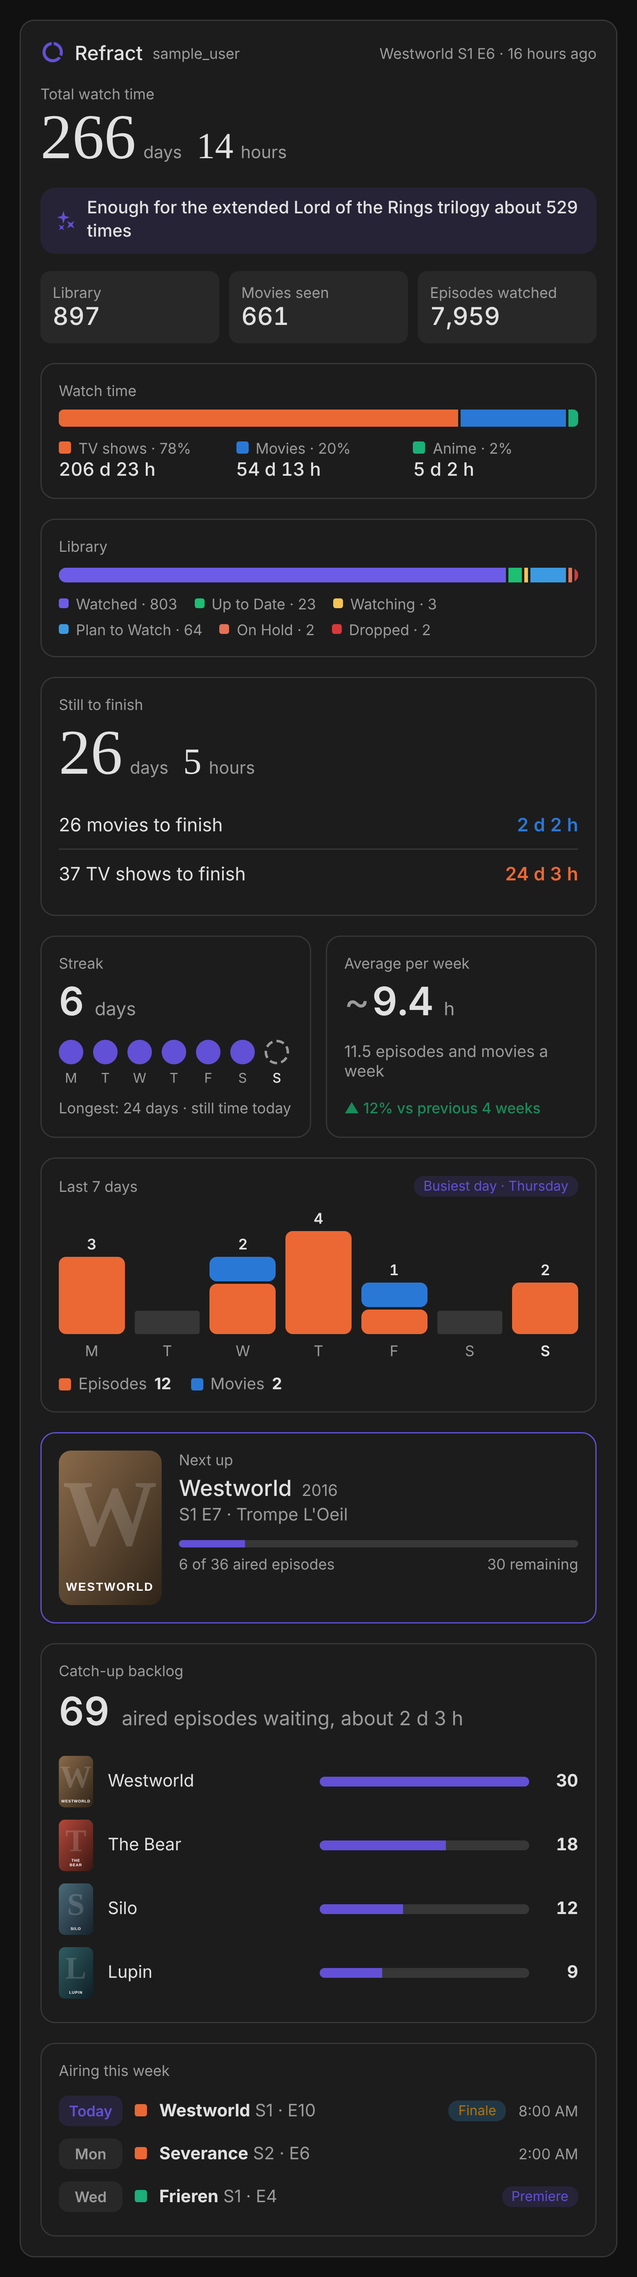
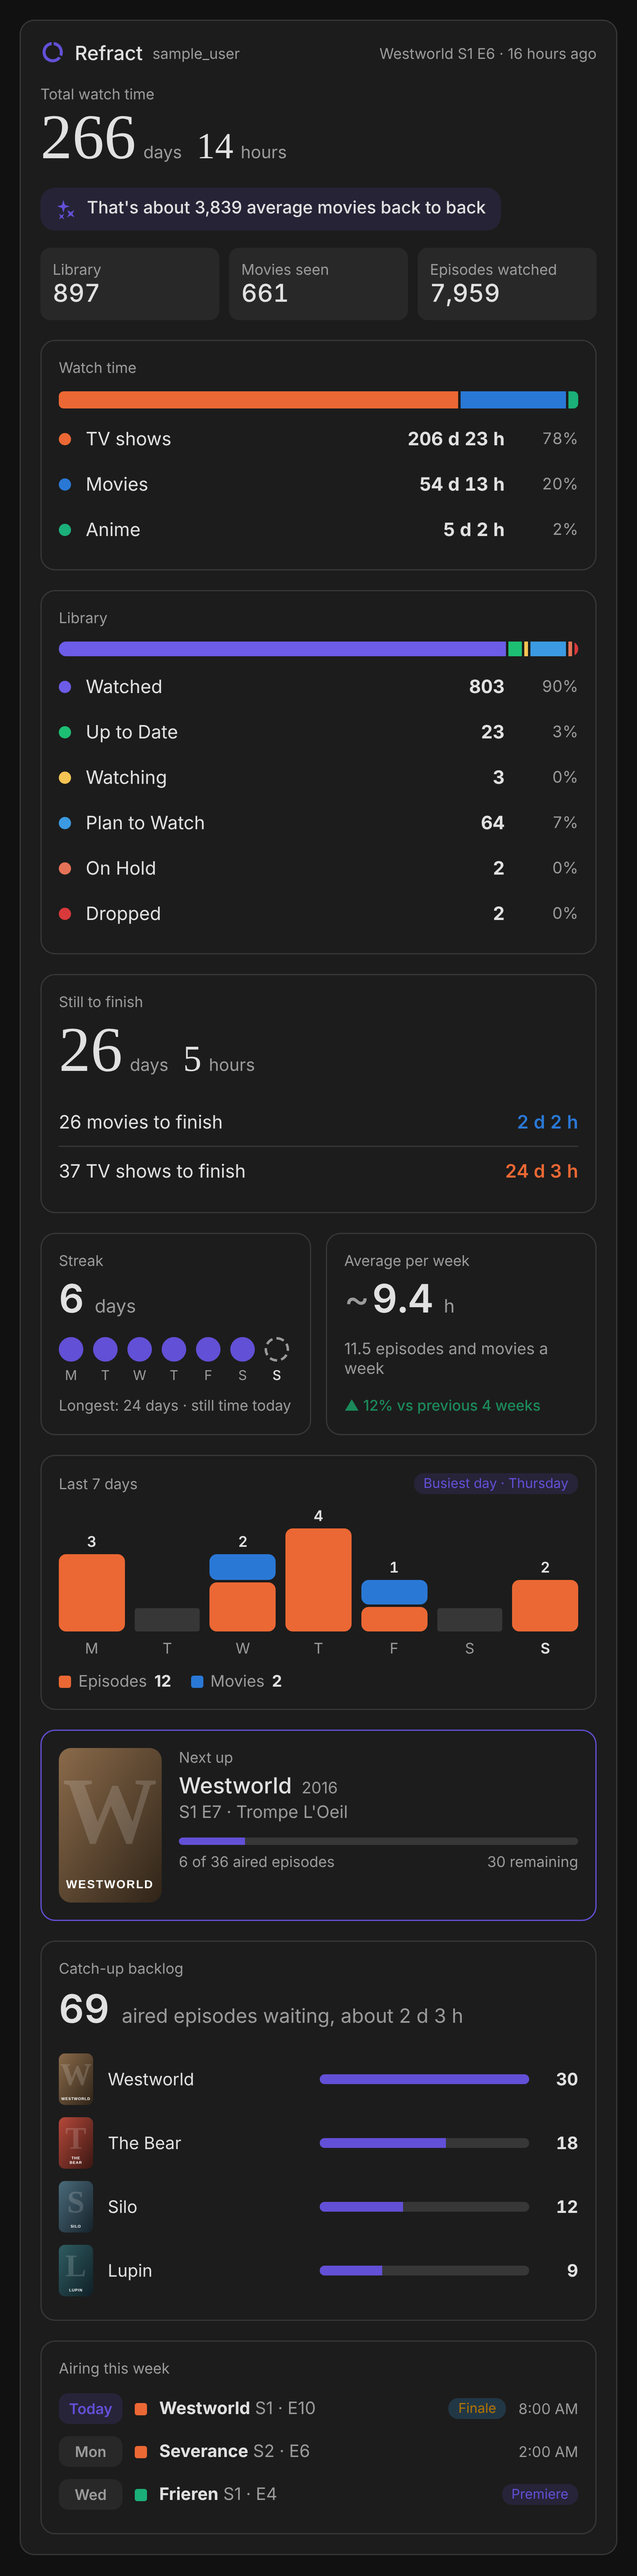
Add files via upload

diff --git a/frontend/test/card.test.ts b/frontend/test/card.test.ts
@@ -23,6 +23,8 @@ const { resolveLayout } = await import("../src/types");
 type Card = InstanceType<typeof RefractStatsCard>;
 const ENTITY = `sensor.${PREFIX}next_up`;
 
+const BARS = { library_style: "bar", watch_time_style: "bar" };
+
 async function mount(config: Record<string, unknown>, hass = makeHass()): Promise<Card> {
   const el = document.createElement("refract-stats-card") as Card;
   el.setConfig({ type: "custom:refract-stats-card", entity: ENTITY, ...config } as any);
@@ -56,7 +58,7 @@ test("renders the hero with human durations", async () => {
 });
 
 test("library status bar and watch-time split", async () => {
-  const el = await mount({});
+  const el = await mount(BARS);
   const t = text(el);
   assert.match(t, /Library Watched · 803/);
   assert.match(t, /Up to Date · 23/);
@@ -78,7 +80,7 @@ function withStatuses(byStatus: Record<string, number>) {
 }
 
 test("library shows every status Refract reports, including on hold and dropped", async () => {
-  const el = await mount({}, withStatuses({ completed: 803, up_to_date: 23, in_progress: 3, planned: 64, on_hold: 2, dropped: 2 }));
+  const el = await mount(BARS, withStatuses({ completed: 803, up_to_date: 23, in_progress: 3, planned: 64, on_hold: 2, dropped: 2 }));
   const t = text(el);
   assert.match(t, /Watched · 803/);
   assert.match(t, /Plan to Watch · 64/);
@@ -92,7 +94,7 @@ test("library shows every status Refract reports, including on hold and dropped"
 });
 
 test("library statuses: aliases merge, empty ones are skipped and unknown ones get a readable name", async () => {
-  const el = await mount({}, withStatuses({ completed: 5, paused: 1, on_hold: 2, never: 0, "waiting-room": 3 }));
+  const el = await mount(BARS, withStatuses({ completed: 5, paused: 1, on_hold: 2, never: 0, "waiting-room": 3 }));
   const t = text(el);
   assert.match(t, /Watched · 5/);
   assert.match(t, /On Hold · 3/, "paused and on_hold are the same status");
@@ -102,7 +104,7 @@ test("library statuses: aliases merge, empty ones are skipped and unknown ones g
 
 test("library list style mirrors the Refract app's breakdown, with its wording and percentages", async () => {
   const el = await mount(
-    { library_style: "list" },
+    { library_style: "list", watch_time_style: "bar" },
     withStatuses({ completed: 802, up_to_date: 23, in_progress: 3, planned: 64, on_hold: 2, dropped: 2 }),
   );
   const root = el.shadowRoot!;
@@ -116,14 +118,21 @@ test("library list style mirrors the Refract app's breakdown, with its wording a
 });
 
 test("library list style also works without per-status data (older integration)", async () => {
-  const el = await mount({ library_style: "list" });
+  const el = await mount({ library_style: "list", watch_time_style: "bar" });
   const rows = [...el.shadowRoot!.querySelectorAll(".stat-row")].map((r) => r.textContent!.replace(/\s+/g, " ").trim());
   assert.equal(rows[0], "Watched 803 90%");
   assert.match(rows[rows.length - 1], /^Other 4 /);
 });
 
-test("the library stays a compact bar with a legend by default", async () => {
-  const el = await mount({});
+test("watch time and library are breakdown lists by default, and the bar is one setting away", async () => {
+  const t = await mount({});
+  assert.ok(t.shadowRoot!.querySelectorAll(".stat-row").length > 6, "list rows for both");
+  assert.equal(t.shadowRoot!.querySelector(".status-legend"), null);
+  assert.ok((await mount(BARS)).shadowRoot!.querySelector(".status-legend"));
+});
+
+test("the library bar has a legend", async () => {
+  const el = await mount(BARS);
   assert.ok(el.shadowRoot!.querySelector(".status-legend"));
   assert.equal(el.shadowRoot!.querySelector(".stat-row"), null);
 });
@@ -203,7 +212,7 @@ test("watch time breakdown list mirrors the library list: bar on top, one row pe
 });
 
 test("watch time bar: percentage after the title with a dot, no brackets", async () => {
-  const el = await mount({});
+  const el = await mount(BARS);
   assert.ok(el.shadowRoot!.querySelector(".watch-cols"));
   assert.equal([...el.shadowRoot!.querySelectorAll(".panel")].filter((p) => p.querySelector(".label")?.textContent === "Watch time")[0].querySelector(".stat-row"), null);
   assert.match(text(el), /TV shows · 78%/);
@@ -567,7 +576,7 @@ test("a card from before the custom layout that hides sections keeps working as 
 
 test("section toggles hide sections", async () => {
   const t = text(
-    await mount({ show_hero: false, show_catchup: false, show_next_up: false, show_airing: false, show_last_7_days: false, show_average: false, show_streak: false }),
+    await mount({ ...BARS, show_hero: false, show_catchup: false, show_next_up: false, show_airing: false, show_last_7_days: false, show_average: false, show_streak: false }),
   );
   assert.doesNotMatch(t, /Total watch time|Catch-up|Next up|Airing|Last 7 days|Average per week|Streak/);
   assert.match(t, /Watched · 803/);
@@ -778,7 +787,7 @@ test("custom colors become CSS variables", async () => {
 
 test("re-renders only when a Refract entity changes", async () => {
   const hass = makeHass();
-  const el = await mount({}, hass);
+  const el = await mount(BARS, hass);
   let renders = 0;
   const original = (el as any).render.bind(el);
   (el as any).render = () => (renders++, original());

diff --git a/frontend/src/format.ts b/frontend/src/format.ts
@@ -86,30 +86,47 @@ export function shares(values: number[]): number[] {
 
 // ---------------------------------------------------------------- fun stats
 
-const LOTR_EXTENDED_MINUTES = 228 + 235 + 263;
-
 type FunKind = Exclude<FunStatMode, "rotate">;
+
+/**
+ * Comparisons that divide the total by the length of something. Shown from two of them up.
+ * Approximations: a flight around the world at about 900 km/h, an average movie of 100 minutes,
+ * a 22-episode season of 42 minutes, a marathon in 4 h 30, an Apollo trip to the Moon of 3 days,
+ * and the IMDb Top 250 as 250 films of about 130 minutes.
+ */
+const RATIO_MINUTES: Partial<Record<FunKind, number>> = {
+  workweeks: 40 * 60,
+  lotr: 228 + 235 + 263,
+  flights: 2670,
+  movies: 100,
+  seasons: 22 * 42,
+  marathons: 270,
+  moon: 3 * 1440,
+  imdb: 250 * 130,
+};
+
+/** The order they rotate in. */
+const FUN_KINDS: FunKind[] = ["months", "workweeks", "lotr", "flights", "sleep", "movies", "seasons", "marathons", "moon", "imdb"];
 
 function funText(hass: HomeAssistant | undefined, kind: FunKind, minutes: number): string | undefined {
   const lang = languageOf(hass);
   const days = minutes / 1440;
-  switch (kind) {
-    case "months": {
-      if (days < 1) return undefined;
-      if (days < 30) return t(hass, "fun.days", { n: fmtNumber(days, lang) });
-      const months = days / 30.4375;
-      if (months < 24) return t(hass, "fun.months", { n: fmtNumber(months, lang, 1) });
-      return t(hass, "fun.years", { n: fmtNumber(months / 12, lang, 1) });
-    }
-    case "workweeks": {
-      const weeks = minutes / 60 / 40;
-      return weeks >= 2 ? t(hass, "fun.workweeks", { n: fmtNumber(weeks, lang) }) : undefined;
-    }
-    case "lotr": {
-      const times = minutes / LOTR_EXTENDED_MINUTES;
-      return times >= 2 ? t(hass, "fun.lotr", { n: fmtNumber(times, lang) }) : undefined;
-    }
+  if (kind === "months") {
+    if (days < 1) return undefined;
+    if (days < 30) return t(hass, "fun.days", { n: fmtNumber(days, lang) });
+    const months = days / 30.4375;
+    if (months < 24) return t(hass, "fun.months", { n: fmtNumber(months, lang, 1) });
+    return t(hass, "fun.years", { n: fmtNumber(months / 12, lang, 1) });
   }
+  if (kind === "sleep") {
+    const nights = minutes / (8 * 60);
+    if (nights < 365) return nights >= 2 ? t(hass, "fun.sleep_nights", { n: fmtNumber(nights, lang) }) : undefined;
+    return t(hass, "fun.sleep_years", { n: fmtNumber(nights / 365.25, lang, 1) });
+  }
+  const unit = RATIO_MINUTES[kind];
+  if (!unit) return undefined;
+  const times = minutes / unit;
+  return times >= 2 ? t(hass, `fun.${kind}`, { n: fmtNumber(times, lang) }) : undefined;
 }
 
 /** One friendly comparison for the hero. Rotates once a day in "rotate" mode. */
@@ -121,8 +138,7 @@ export function funStatText(
 ): string | undefined {
   if (!(minutes >= 1440)) return undefined;
   if (mode !== "rotate") return funText(hass, mode, minutes);
-  const kinds: FunKind[] = ["months", "workweeks", "lotr"];
-  const available = kinds.filter((k) => funText(hass, k, minutes));
+  const available = FUN_KINDS.filter((k) => funText(hass, k, minutes));
   if (!available.length) return undefined;
   const pick = available[Math.floor(now / DAY_MS) % available.length];
   return funText(hass, pick, minutes);

diff --git a/frontend/test/format.test.ts b/frontend/test/format.test.ts
@@ -42,6 +42,29 @@ test("fun stat: months, fixed mode", () => {
   assert.match(funStatText(undefined, 383908, "lotr")!, /about 529 times/);
 });
 
+test("fun stat: every comparison has its own wording", () => {
+  const m = 383908; // about 266 days
+  const expected: Record<string, RegExp> = {
+    flights: /fly around the world about 144 times/,
+    sleep: /about 2\.2 years of sleep at 8 hours a night/,
+    movies: /about 3,839 average movies/,
+    seasons: /about 415 full 22-episode TV seasons/,
+    marathons: /run about 1,422 marathons/,
+    moon: /about 89 one-way trips to the Moon/,
+    imdb: /whole IMDb Top 250 about 12 times/,
+  };
+  for (const [mode, re] of Object.entries(expected)) assert.match(funStatText(undefined, m, mode as any)!, re, mode);
+  assert.match(funStatText(undefined, 1500, "sleep")!, /about 3 nights of sleep/);
+  assert.equal(funStatText(undefined, 1500, "moon"), undefined, "too little for a trip to count twice");
+  assert.equal(funStatText(undefined, 1500, "imdb"), undefined);
+});
+
+test("fun stat: rotate cycles through every comparison that applies", () => {
+  const day = 86_400_000;
+  const seen = new Set(Array.from({ length: 10 }, (_, i) => funStatText(undefined, 383908, "rotate", i * day)));
+  assert.equal(seen.size, 10);
+});
+
 test("fun stat: hidden for tiny totals and rotates by day", () => {
   assert.equal(funStatText(undefined, 600, "rotate"), undefined);
   const day = 86_400_000;

diff --git a/frontend/demo/index.html b/frontend/demo/index.html
@@ -23,8 +23,8 @@
   <label>Theme <select id="theme"><option>dark</option><option>light</option></select></label>
   <label>Width <input id="width" type="range" min="300" max="900" value="520" /> <span id="wv">520</span>px</label>
   <label>Layout <select id="layout"><option>full</option><option>compact</option><option>custom</option></select></label>
-  <label>Library <select id="libstyle"><option>bar</option><option>list</option></select></label>
-  <label>Watch time <select id="watchstyle"><option>bar</option><option>list</option></select></label>
+  <label>Library <select id="libstyle"><option>list</option><option>bar</option></select></label>
+  <label>Watch time <select id="watchstyle"><option>list</option><option>bar</option></select></label>
   <label><input id="posters" type="checkbox" checked /> Posters (placeholder art)</label>
   <label>Duration <select id="dur"><option>days_hours</option><option>hours</option><option>auto</option></select></label>
   <label><input id="actions" type="checkbox" /> Mark watched button</label>

diff --git a/frontend/src/types.ts b/frontend/src/types.ts
@@ -39,7 +39,18 @@ export interface HomeAssistant {
 
 export type StreakStyle = "gauge" | "dots";
 export type DurationFormat = "days_hours" | "hours" | "auto";
-export type FunStatMode = "rotate" | "months" | "workweeks" | "lotr";
+export type FunStatMode =
+  | "rotate"
+  | "months"
+  | "workweeks"
+  | "lotr"
+  | "flights"
+  | "sleep"
+  | "movies"
+  | "seasons"
+  | "marathons"
+  | "moon"
+  | "imdb";
 /** `full`: every section. `compact`: watch time, still to finish and next up. `custom`: you pick the sections and their order. */
 export type Layout = "full" | "compact" | "custom";
 /** `bar`: compact bar with a legend. `list`: the breakdown the Refract app shows, one row per entry. */
@@ -161,8 +172,8 @@ export interface RefractCardConfig {
 
 export const DEFAULT_CONFIG = {
   layout: "full",
-  library_style: "bar",
-  watch_time_style: "bar",
+  library_style: "list",
+  watch_time_style: "list",
   duration_format: "days_hours",
   fun_stat: true,
   fun_stat_mode: "rotate",

diff --git a/frontend/src/localize.ts b/frontend/src/localize.ts
@@ -86,6 +86,14 @@ const en: Dict = {
   "fun.days": "That's about {n} days of nonstop viewing",
   "fun.workweeks": "That's about {n} full-time work weeks",
   "fun.lotr": "Enough for the extended Lord of the Rings trilogy about {n} times",
+  "fun.flights": "Enough time to fly around the world about {n} times",
+  "fun.sleep_nights": "That's about {n} nights of sleep",
+  "fun.sleep_years": "That's about {n} years of sleep at 8 hours a night",
+  "fun.movies": "That's about {n} average movies back to back",
+  "fun.seasons": "That's about {n} full 22-episode TV seasons",
+  "fun.marathons": "Enough time to run about {n} marathons",
+  "fun.moon": "Enough for about {n} one-way trips to the Moon",
+  "fun.imdb": "Enough to watch the whole IMDb Top 250 about {n} times",
 };
 
 const dictionaries: Record<string, Dict> = { en };

diff --git a/frontend/src/editor.ts b/frontend/src/editor.ts
@@ -121,6 +121,13 @@ const buildSchema = (custom: boolean) => [
           option("months", "Months of nonstop viewing"),
           option("workweeks", "Full-time work weeks"),
           option("lotr", "Lord of the Rings marathons"),
+          option("flights", "Flights around the world"),
+          option("sleep", "Nights of sleep"),
+          option("movies", "Average movies back to back"),
+          option("seasons", "Full TV seasons"),
+          option("marathons", "Marathons run"),
+          option("moon", "Trips to the Moon"),
+          option("imdb", "IMDb Top 250 runs"),
         ]),
       },
     ],

diff --git a/docs/dashboard-card.md b/docs/dashboard-card.md
@@ -9,8 +9,8 @@ The dashboard card that ships with the [Refract integration](https://github.com/
 | Section | What you see | Needs |
 |---|---|---|
 | **Watch time** | Total time as days and hours, a library/movies/episodes watched summary, and the fun stat in a highlighted pill ("about 8.8 months of nonstop viewing") | profile stats |
-| **Watch time split** | Shows, movies and anime as a stacked bar with readable durations and shares. Choose a compact bar with the share after each title (TV shows · 78%), or a breakdown list with the time and share on one row per kind | profile stats |
-| **Library** | Every status you use, named and colored as in the Refract app: Watched, Up to Date, Watching, Plan to Watch, On Hold, Dropped (and any other status Refract adds). Choose a compact bar with a legend (Watched · 803), or the full breakdown list with counts and percentages | library |
+| **Watch time split** | Shows, movies and anime as a stacked bar with readable durations and shares. Shown as a breakdown list by default, with the time and share on one row per kind. Choose a compact bar instead, with the share after each title (TV shows · 78%) | profile stats |
+| **Library** | Every status you use, named and colored as in the Refract app: Watched, Up to Date, Watching, Plan to Watch, On Hold, Dropped (and any other status Refract adds). Shown as the full breakdown list with counts and percentages by default. Choose a compact bar instead, with a legend (Watched · 803) | library |
 | **Still to finish** | The time left to watch the movies and shows you haven't finished (Plan to Watch, Watching and On Hold), as in the Refract app: the total, and one row each for movies, TV shows and anime (only when you have anime to finish) with the number of titles and the time left | library |
 | **Streak** | Current streak in big numbers, seven day dots and your longest streak | profile stats |
 | **Average per week** | Estimated hours per week over the last 4 weeks, how many episodes and movies that is, and the change against the 4 weeks before | watch history |
@@ -117,11 +117,11 @@ Cards from before 0.4.4 that have no `layout` but hide sections or set a `sectio
 | `entity` | | **Required.** Any entity of the Refract account |
 | `name` | from the device | Overrides the account name in the header |
 | `layout` | `full` | `full` (every section), `compact` (total watch time, still to finish and next up) or `custom` (use `show_*` and `section_order`) |
-| `watch_time_style` | `bar` | `bar` (a stacked bar with the share after each title) or `list` (a bar plus one row per kind with its time and percentage, like the library list; taller) |
-| `library_style` | `bar` | `bar` (a status bar with a legend) or `list` (the Refract app's status breakdown: a bar plus one row per status with its count and percentage; taller) |
+| `watch_time_style` | `list` | `list` (a bar plus one row per kind with its time and percentage, like the library list) or `bar` (a stacked bar with the share after each title; shorter) |
+| `library_style` | `list` | `list` (the Refract app's status breakdown: a bar plus one row per status with its count and percentage) or `bar` (a status bar with a legend; shorter) |
 | `duration_format` | `days_hours` | `days_hours` (206 d 23 h), `hours` (4,967 h) or `auto` (picks the unit by size) |
 | `fun_stat` | `true` | Show the fun stat pill under the watch time |
-| `fun_stat_mode` | `rotate` | `rotate` (changes daily), `months`, `workweeks` or `lotr` |
+| `fun_stat_mode` | `rotate` | `rotate` (changes daily through every comparison that applies), or pick one: `months`, `workweeks`, `lotr`, `flights`, `sleep`, `movies`, `seasons`, `marathons`, `moon` or `imdb` |
 | `queue_length` | `5` | Catch-up rows shown before "Show all" |
 | `airing_length` | `5` | "Airing this week" rows shown before "Show all" |
 | `section_order` | see above | Order of the sections under the header (list of section names). Only used by `layout: custom` |
@@ -211,7 +211,22 @@ Add one card per account and pick an entity from each.
 - **Last 7 days** shows the number of episodes watched above each bar (days with no episodes show no number); movies are the blue part of the bar.
 - **Episodes watched** in the summary is TV episodes plus anime episodes.
 - **Still to finish** adds up the titles in your library that are *Plan to Watch*, *Watching* or *On Hold*; completed, up to date and dropped titles don't count. For shows you've started, the episodes are the aired ones you haven't watched (the same numbers as the catch-up backlog). For shows you haven't started, Refract's library doesn't say how many episodes there are, so the integration asks TMDB for the number of aired episodes and the episode runtime, and for movies the runtime. **This needs a TMDB API key in the integration options** (the same one used for posters); results are cached on disk, and episode counts are refreshed every few days as episodes air. Without a key, or for a title TMDB doesn't know, the show is counted but left out of the episodes and the time, and the `unknown_episode_shows` attribute of the sensor says how many. Where there is no runtime, your average runtime per movie or episode is used. It may differ a little from the Refract app, and it changes as episodes air.
-- **The fun stat** needs at least a day of watch time. In `rotate` mode it changes once a day.
+- **The fun stat** needs at least a day of watch time. In `rotate` mode it changes once a day. The comparisons are approximations:
+
+  | Mode | Comparison | Based on |
+  |---|---|---|
+  | `months` | Days, months or years of nonstop viewing | your total time |
+  | `workweeks` | Full-time work weeks | 40 hours a week |
+  | `lotr` | The extended Lord of the Rings trilogy | 12 hours 6 minutes |
+  | `flights` | Flights around the world | about 44.5 hours at airliner speed |
+  | `sleep` | Nights or years of sleep | 8 hours a night |
+  | `movies` | Average movies back to back | 100 minutes each |
+  | `seasons` | Full TV seasons | 22 episodes of 42 minutes |
+  | `marathons` | Marathons run | 4 hours 30 minutes each |
+  | `moon` | One-way trips to the Moon | 3 days, as the Apollo missions |
+  | `imdb` | Watching the whole IMDb Top 250 | 250 films of about 130 minutes |
+
+  A comparison that would come out below 2 is skipped, in `rotate` mode and when you pick it.
 
 ## Styling
 

diff --git a/CHANGELOG.md b/CHANGELOG.md
@@ -2,6 +2,18 @@
 
 All notable changes to the Refract integration and its dashboard card.
 
+## 0.4.6
+
+### Added
+- **Seven more fun stats**: flights around the world, nights or years of sleep, average movies back to back, full TV seasons, marathons run, one-way trips to the Moon and runs through the IMDb Top 250. Pick one in the editor (*Fun stat*) with `fun_stat_mode`, or let `rotate` cycle through all ten. The comparisons are approximations, explained in the card documentation
+
+### Changed
+- **Watch time** and **Library** are now shown as the breakdown list by default (`watch_time_style: list`, `library_style: list`). The compact bar is still available in the editor and with `bar`
+- The card screenshot shows the breakdown lists
+
+### Upgrading
+- Cards that never set `watch_time_style` or `library_style` switch from the compact bar to the list. To keep the bar, set the style to `bar` in the editor or in YAML
+
 ## 0.4.5
 
 ### Changed

diff --git a/frontend/CHANGELOG.md b/frontend/CHANGELOG.md
@@ -1,5 +1,11 @@
 # Changelog
 
+## 0.4.6
+
+- **New:** seven more fun stats (`flights`, `sleep`, `movies`, `seasons`, `marathons`, `moon`, `imdb`); `rotate` cycles through all ten
+- **Changed:** *Watch time* and *Library* default to the breakdown list instead of the compact bar. Set `watch_time_style` / `library_style` to `bar` to keep the bar
+- The screenshot shows the breakdown lists
+
 ## 0.4.5
 
 - **Changed:** with the Custom layout, the editor shows **Section order** directly under **Sections**
